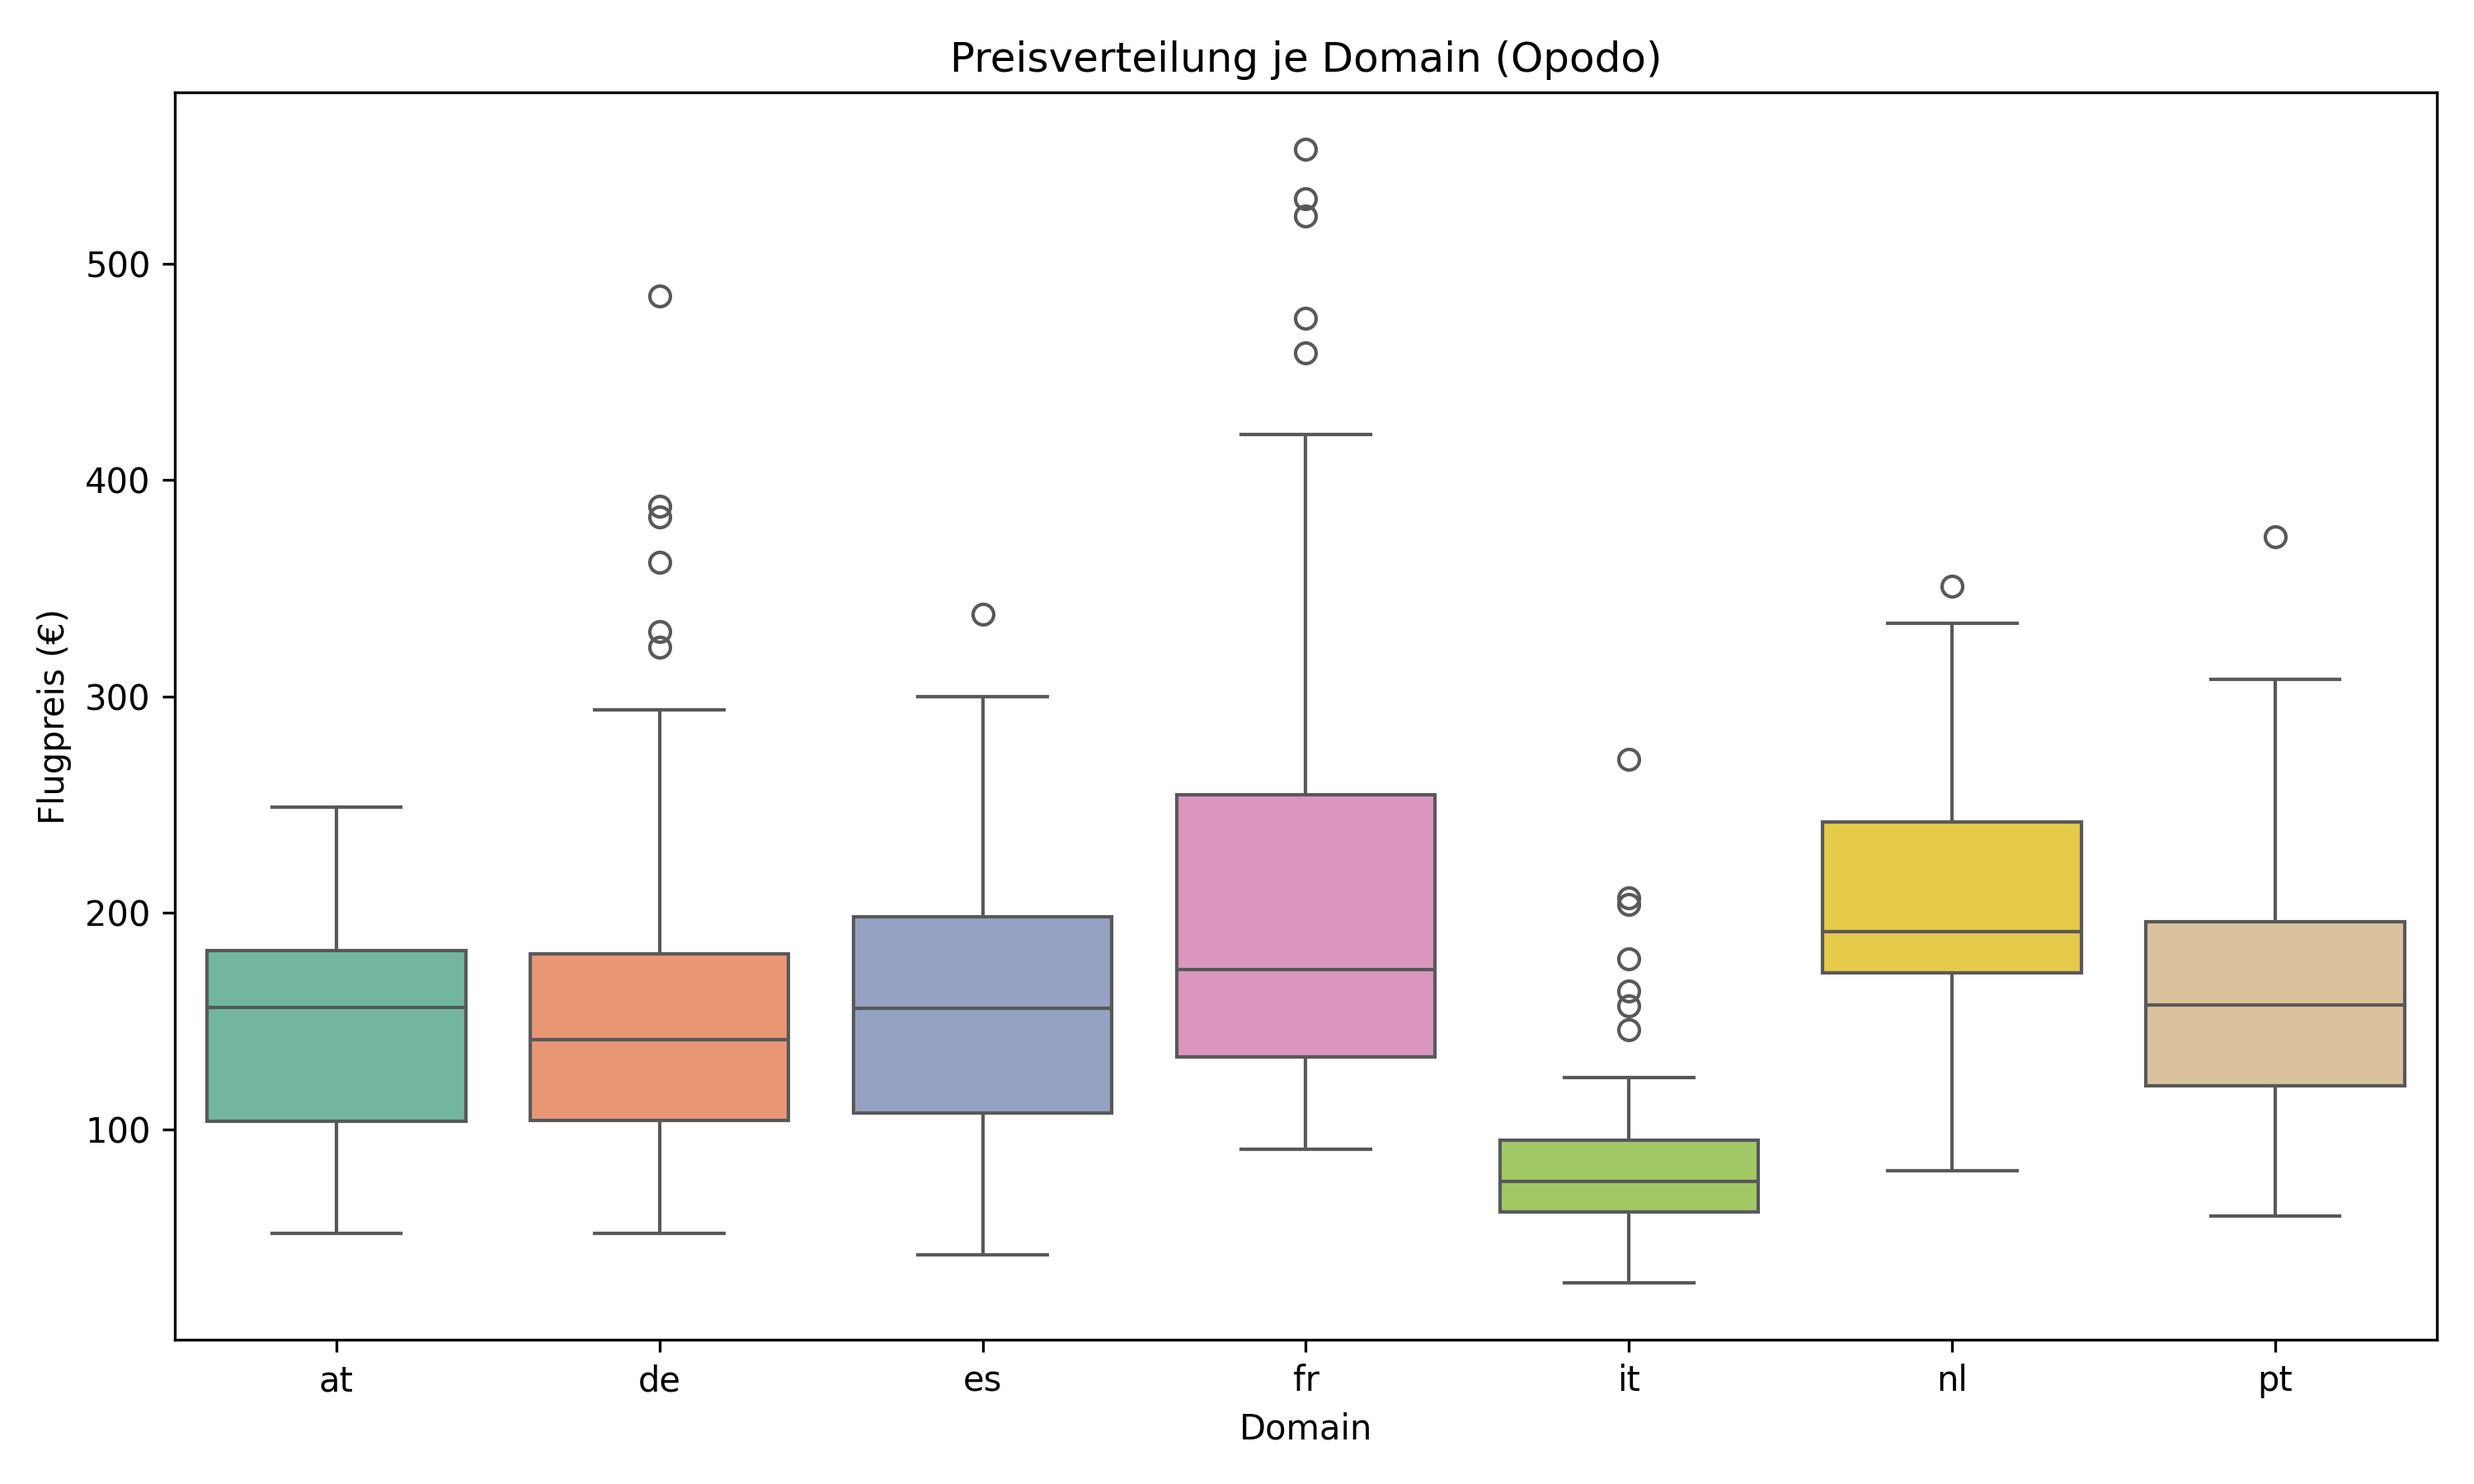
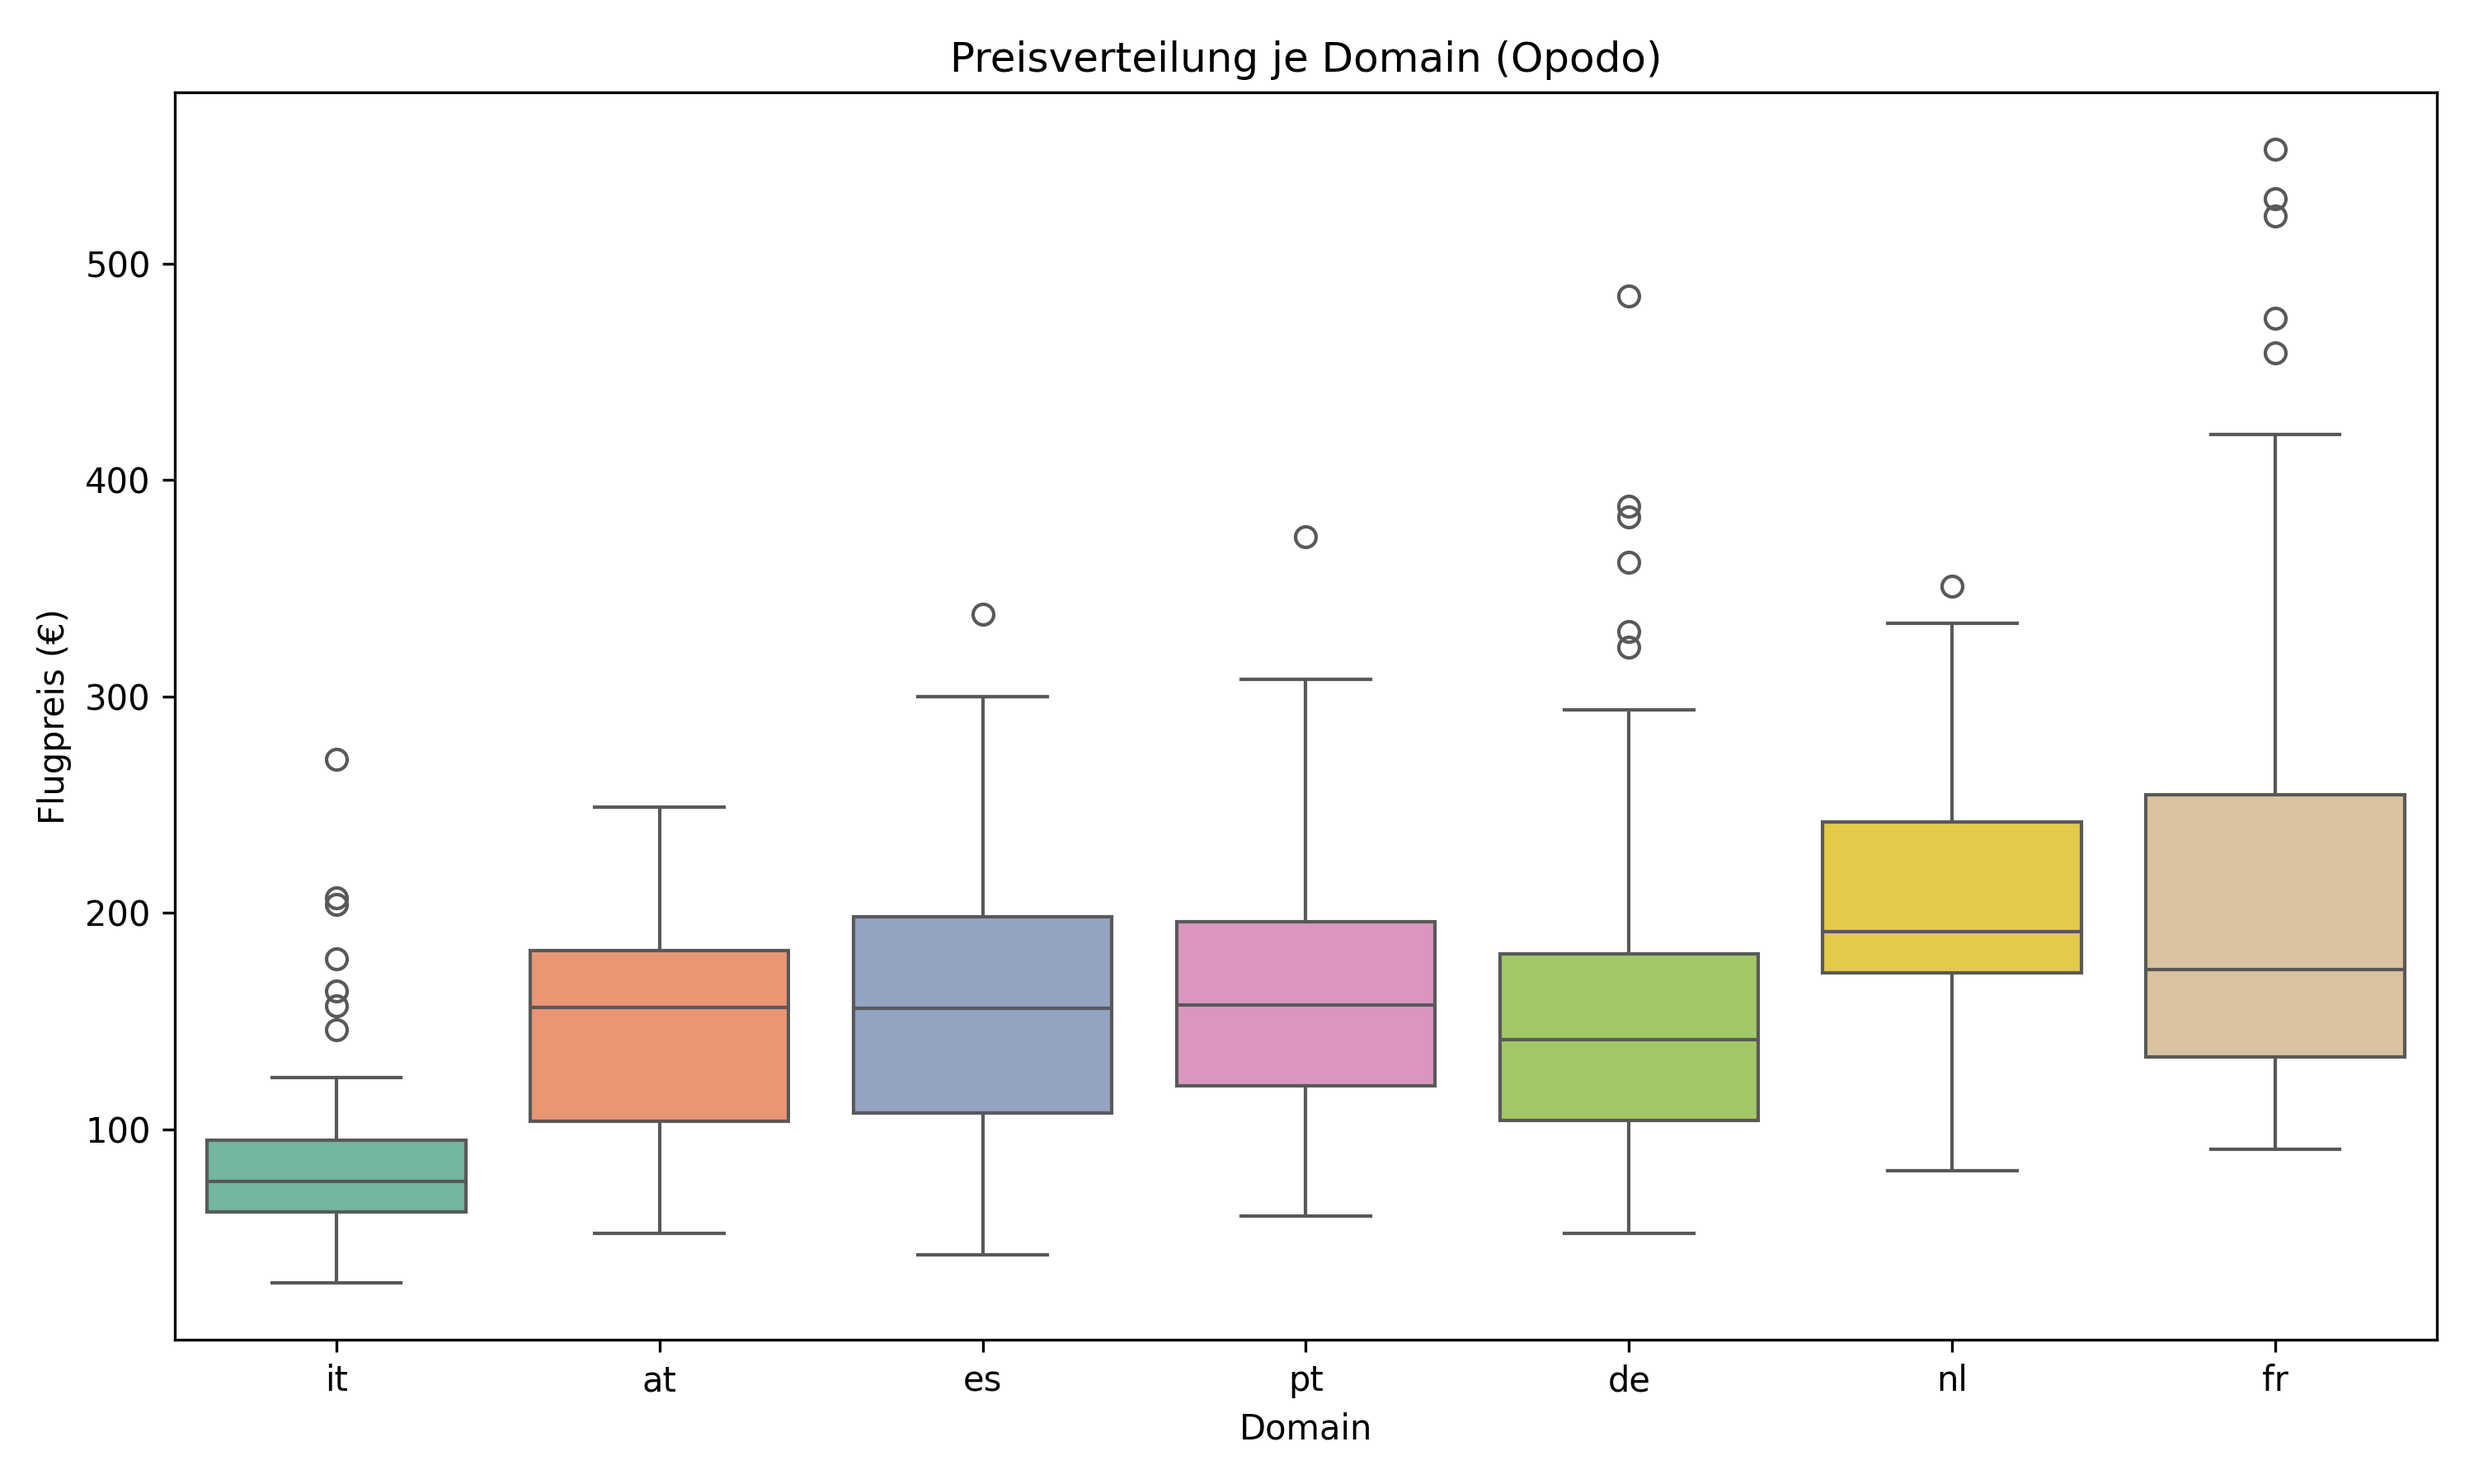
changed boxplot order

diff --git a/Project/APIs/API_Analysis/opodo_analysis.py b/Project/APIs/API_Analysis/opodo_analysis.py
@@ -155,9 +155,13 @@ plt.tight_layout()
 plt.savefig("Pictures/durchschnittspreise_hauptstaedte_vergleich_opodo.png", dpi=300)
 plt.show()
 
+# Beispielhafte Reihenfolge (nach Domainreihenfolge angepasst):
+reihenfolge = ['it', 'at', 'es', 'pt', 'de', 'nl', 'fr']
+
+
 # Plot 2
 plt.figure(figsize=(10, 6))
-sns.boxplot(data=opodo_df, x='Domain', y='Preis', palette='Set2')
+sns.boxplot(data=opodo_df, x='Domain', y='Preis',order=reihenfolge, palette='Set2')
 plt.title("Preisverteilung je Domain (Opodo)")
 plt.xlabel("Domain")
 plt.ylabel("Flugpreis (€)")
